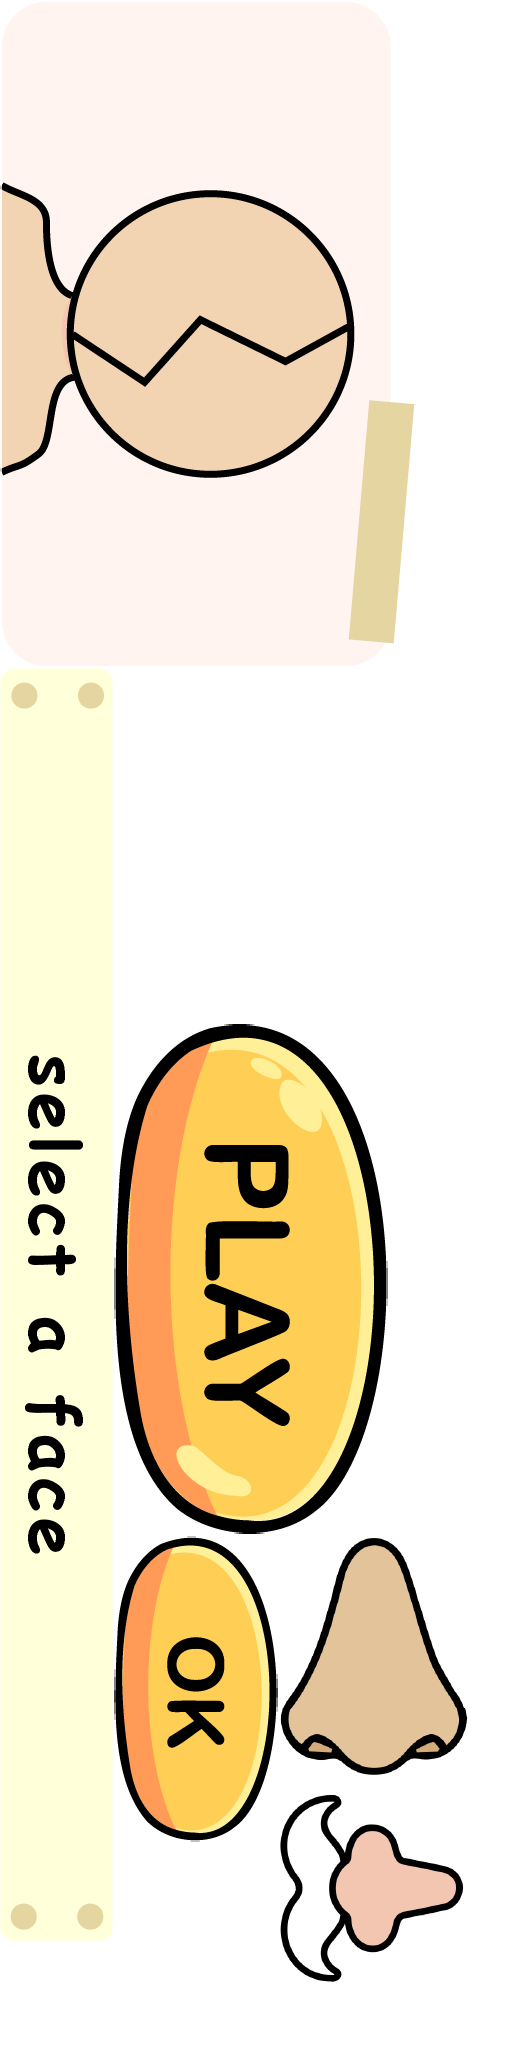
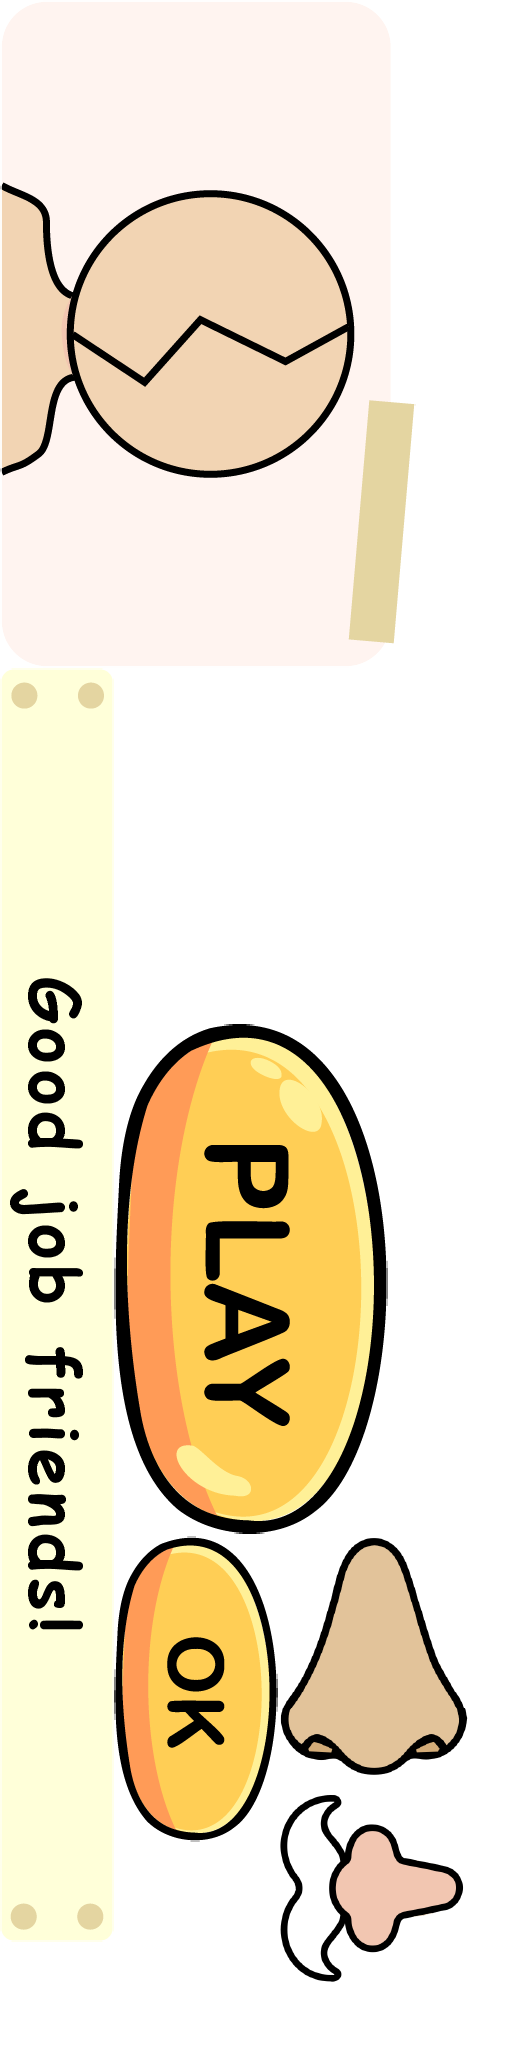
0.4

Changed region(s): [[0.0312, 0.4688, 0.1562, 0.8125]]

diff --git a/scripts/c3runtime.js b/scripts/c3runtime.js
@@ -3835,15 +3835,18 @@ self.C3_GetObjectRefTable = function () {
 		C3.Plugins.Sprite.Acts.SetBoolInstanceVar,
 		C3.Plugins.Text.Acts.SetText,
 		C3.Plugins.Sprite.Exps.AnimationName,
-		C3.Plugins.System.Exps.lowercase,
+		C3.Plugins.System.Exps.uppercase,
+		C3.Plugins.System.Exps.left,
 		C3.Plugins.Text.Exps.Text,
+		C3.Plugins.System.Exps.lowercase,
+		C3.Plugins.System.Exps.right,
+		C3.Plugins.System.Exps.len,
 		C3.Plugins.DrawingCanvas.Acts.ClearCanvas,
 		C3.Plugins.System.Exps.rgba,
 		C3.Plugins.Sprite.Cnds.IsBoolInstanceVarSet,
 		C3.Plugins.Sprite.Exps.UID,
 		C3.Plugins.System.Cnds.PickAll,
 		C3.Plugins.Sprite.Cnds.PickByUID,
-		C3.Plugins.System.Exps.uppercase,
 		C3.Plugins.System.Cnds.LayerVisible,
 		C3.Behaviors.DragnDrop.Acts.SetEnabled,
 		C3.Plugins.System.Cnds.Else,
@@ -4002,8 +4005,8 @@ self.C3_ExpressionFuncs = [
 		},
 		() => "EYEBROWS",
 		() => "EYES",
-		() => "NOSE",
-		() => "MOUTH",
+		() => "NOSES",
+		() => "MOUTHS",
 		() => "EARS",
 		p => {
 			const v0 = p._GetNode(0).GetVar();
@@ -4013,6 +4016,17 @@ self.C3_ExpressionFuncs = [
 		p => {
 			const n0 = p._GetNode(0);
 			return () => n0.ExpInstVar();
+		},
+		p => {
+			const f0 = p._GetNode(0).GetBoundMethod();
+			const f1 = p._GetNode(1).GetBoundMethod();
+			const n2 = p._GetNode(2);
+			const f3 = p._GetNode(3).GetBoundMethod();
+			const f4 = p._GetNode(4).GetBoundMethod();
+			const n5 = p._GetNode(5);
+			const f6 = p._GetNode(6).GetBoundMethod();
+			const n7 = p._GetNode(7);
+			return () => (f0(f1(n2.ExpObject(), 1)) + f3(f4(n5.ExpObject(), (f6(n7.ExpObject()) - 1))));
 		},
 		p => {
 			const f0 = p._GetNode(0).GetBoundMethod();
